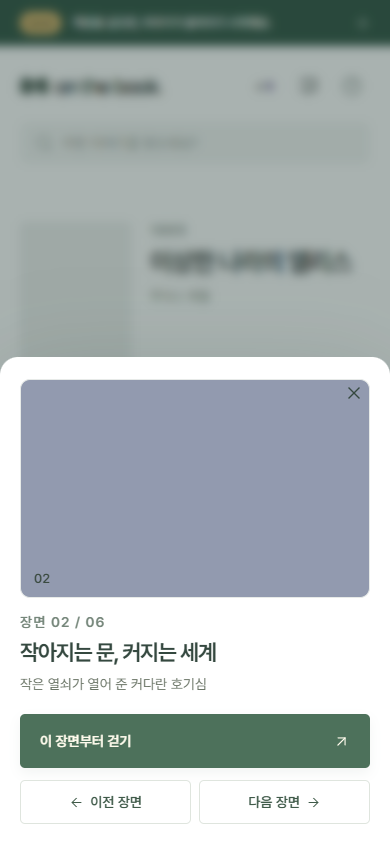
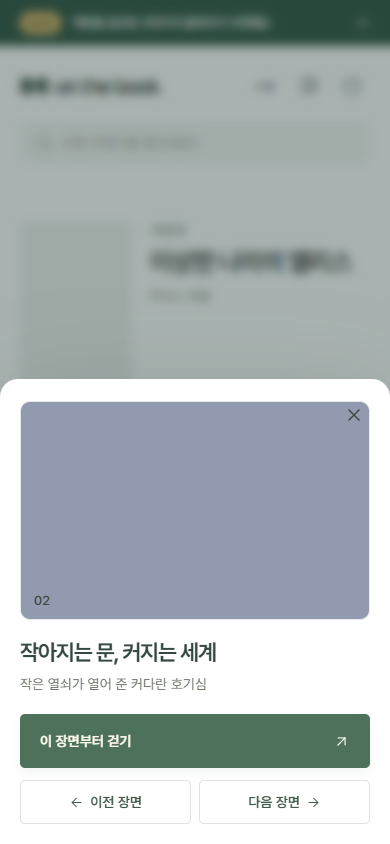
Open the flag tooltip rightwards, close its arrow seam and drop the scene counter
The saved flag's tooltip now opens to the right of its arrow, starting just
before the flag. Where the journey row, the scene panel or the sheet has no
room on that side, main.js measures the bubble before it shows and opens it
leftwards over the title instead, sliding it back inside at the very edge,
since the panel and the sheet are scrolling boxes that would clip it.

The arrow was a border triangle. Border widths are rounded down to whole
device pixels, so at 90% and 110% zoom a light line opened between the arrow
and the bubble. The arrow is now a clipped block whose top 3px sit under the
bubble.

The scene panel and the phone sheet no longer show the "장면 02 / 06" line
above the title; the image's number and the journey list give the position.
The detail screenshots and the spec follow.

Changed region(s): [[0.0, 0.4005, 1.0, 0.4929], [0.0308, 0.6777, 0.9538, 0.7393]]

diff --git a/client/detail.css b/client/detail.css
@@ -41,15 +41,20 @@
 /* The saved scene's flag ends its title, in the journey row and in the scene panel. It is filled orange so it stands
    out on the green page (3:1 or more on white and on the selected row), and it follows the title's size: 16px in a
    row, 22px in the panel. */
-.saved-flag { position: relative; display: inline-block; margin-left: .3em; line-height: 0; vertical-align: -.12em; color: #e8590c; }
+.saved-flag { --tip-edge: -10px; position: relative; display: inline-block; margin-left: .3em; line-height: 0; vertical-align: -.12em; color: #e8590c; }
 .saved-flag svg { display: block; width: 1em; height: 1em; fill: currentColor; }
 /* The flag's tooltip: its label in a dark bubble above the flag. It shows after a short pause while the pointer is on
    the flag or on the bubble (so it stays readable under magnification) and while the flag's journey row has keyboard
-   focus. The bubble ends just past the flag and opens leftwards over the title, so it never runs past the scene
-   panel's right edge. Touch screens have no hover, so on phones the flag stands alone. */
+   focus. The bubble starts --tip-edge before the flag and opens to the right of its arrow. Where the journey row, the
+   scene panel or the sheet has no room on that side, main.js sets --tip-left so it opens leftwards over the title
+   instead, and slides back inside at the very edge, because the panel and the sheet are scrolling boxes that would
+   clip it. Touch screens have no hover, so on phones the flag stands alone. */
 .saved-flag::before, .saved-flag::after { position: absolute; z-index: 2; opacity: 0; visibility: hidden; transform: translateY(3px); transition: opacity .12s ease, transform .12s ease, visibility 0s linear .12s; }
-.saved-flag::after { content: attr(aria-label); bottom: calc(100% + 6px); right: -10px; padding: 7px 10px; border-radius: 6px; background: #26352d; color: #fff; font-size: 13px; font-weight: 600; line-height: 1.3; letter-spacing: 0; white-space: nowrap; }
-.saved-flag::before { content: ""; bottom: 100%; left: 50%; margin-left: -6px; border: 6px solid transparent; border-bottom-width: 0; border-top-color: #26352d; }
+.saved-flag::after { content: attr(aria-label); bottom: calc(100% + 6px); left: var(--tip-left, var(--tip-edge)); padding: 7px 10px; border-radius: 6px; background: #26352d; color: #fff; font-size: 13px; font-weight: 600; line-height: 1.3; letter-spacing: 0; white-space: nowrap; }
+/* The arrow: a 12px-wide, 6px-deep point under the bubble. It is a clipped block whose top 3px sit under the bubble, so
+   rounding at odd zoom levels cannot open a light seam between them; a border triangle did, since border widths are
+   rounded down to whole device pixels. */
+.saved-flag::before { content: ""; bottom: 100%; left: 50%; width: 12px; height: 9px; margin-left: -6px; background: #26352d; clip-path: polygon(0 0, 100% 0, 100% 3px, 50% 100%, 0 3px); }
 .saved-flag:hover::before, .saved-flag:hover::after, .journey-row:focus-visible .saved-flag::before, .journey-row:focus-visible .saved-flag::after { opacity: 1; visibility: visible; transform: none; transition-delay: .1s, .1s, 0s; }
 /* Escape puts the bubble away until the pointer leaves the flag or focus leaves its row (main.js). These selectors are
    as specific as the ones above, and later, so they win. */
@@ -74,8 +79,7 @@
    `.scene-image img` covers the slot and `.scene-image.has-image .scene-number` becomes a light pill). */
 .scene-panel .scene-image, .scene-sheet .scene-image { display: block; width: 100%; aspect-ratio: 16 / 10; border-radius: 10px; }
 .scene-panel .scene-number, .scene-sheet .scene-number { font-size: 13px; color: #3a4a40; }
-.scene-panel .eyebrow, .scene-sheet .eyebrow { margin: 16px 0 8px; font-size: 14px; letter-spacing: .08em; color: #75867a; }
-.scene-panel h2, .scene-sheet h2 { margin: 0 0 6px; font-size: 22px; line-height: 1.3; word-break: keep-all; font-family: inherit; letter-spacing: -.05em; font-weight: 650; }
+.scene-panel h2, .scene-sheet h2 { margin: 18px 0 6px; font-size: 22px; line-height: 1.3; word-break: keep-all; font-family: inherit; letter-spacing: -.05em; font-weight: 650; }
 .scene-panel .detail-meta, .scene-sheet .detail-meta { margin: 0 0 10px; font-size: 14px; color: #6b7567; }
 .scene-panel .detail-enter, .scene-sheet .detail-enter { width: 100%; margin: 6px 0 4px; justify-content: space-between; }
 /* Previous and next: two buttons of the same width right under the CTA. A missing side stays as a dimmed slot. */

diff --git a/tests/detail.test.js b/tests/detail.test.js
@@ -117,7 +117,7 @@ test("bookDetail escapes text and survives a chapter without placements", () => 
   assert.doesNotMatch(html, /<b>앨리스/);
   assert.doesNotMatch(html, /journey-model|panel-figures/);
   assert.equal(count(html, 'class="journey-row"'), 1);
-  assert.match(html, /장면 01 \/ 01/);
+  assert.match(html, /<h2 id="panel-scene-title">흰 토끼를 따라서<\/h2>/);
 });
 
 test("bookDetail puts the author and book intros after the journey, closing the left column", () => {
@@ -167,7 +167,7 @@ test("the book schema keeps the intros, fills them in for older data and caps th
 
 test("scenePanel shows the scene and ends with the neighbour buttons under the CTA", () => {
   const html = scenePanel({ book: alice, chapter: alice.chapters[1] });
-  assert.match(html, /^<span class="scene-image image-placeholder" data-theme="night" role="img" aria-label="장면 이미지 준비 중"><span class="scene-number">02<\/span><\/span><span class="eyebrow">장면 02 \/ 06<\/span><h2 id="panel-scene-title">작아지는 문, 커지는 세계<\/h2><p class="detail-meta">작은 열쇠가 열어 준 커다란 호기심<\/p><button class="primary-button detail-enter" data-enter="alice" data-enter-chapter="alice-2">이 장면부터 걷기 /);
+  assert.match(html, /^<span class="scene-image image-placeholder" data-theme="night" role="img" aria-label="장면 이미지 준비 중"><span class="scene-number">02<\/span><\/span><h2 id="panel-scene-title">작아지는 문, 커지는 세계<\/h2><p class="detail-meta">작은 열쇠가 열어 준 커다란 호기심<\/p><button class="primary-button detail-enter" data-enter="alice" data-enter-chapter="alice-2">이 장면부터 걷기 /);
   // Previous and next come straight after the CTA and close the panel; the visible words stay the start of each
   // accessible name.
   assert.match(html, /이 장면부터 걷기 <i data-lucide="arrow-up-right" aria-hidden="true"><\/i><\/button><nav class="neighbor-nav" aria-label="이어지는 장면"><a class="neighbor-link" href="\?book=alice&amp;scene=alice-1" data-scene="alice-1" aria-label="이전 장면: 01 흰 토끼를 따라서"><i data-lucide="arrow-left" aria-hidden="true"><\/i> 이전 장면<\/a><a class="neighbor-link" href="\?book=alice&amp;scene=alice-3" data-scene="alice-3" aria-label="다음 장면: 03 버섯 숲의 수수께끼">다음 장면 <i data-lucide="arrow-right" aria-hidden="true"><\/i><\/a><\/nav>$/);
@@ -203,7 +203,8 @@ test("scenePanel keeps a dimmed slot for a missing neighbour so both buttons sta
   const first = scenePanel({ book: alice, chapter: alice.chapters[0] });
   assert.equal(count(first, 'class="neighbor-link"'), 1);
   assert.match(first, /<nav class="neighbor-nav" aria-label="이어지는 장면"><span class="neighbor-link is-disabled" aria-hidden="true"><i data-lucide="arrow-left" aria-hidden="true"><\/i> 이전 장면<\/span><a class="neighbor-link" href="\?book=alice&amp;scene=alice-2" data-scene="alice-2" aria-label="다음 장면: 02 작아지는 문, 커지는 세계">다음 장면 /);
-  assert.match(first, /장면 01 \/ 06/);
+  // The panel has no "장면 01 / 06" counter any more; the image's number and the journey list show the position.
+  assert.doesNotMatch(first, /장면 \d\d \/ \d\d|class="eyebrow"/);
   const last = scenePanel({ book: alice, chapter: alice.chapters[5] });
   assert.equal(count(last, 'class="neighbor-link"'), 1);
   assert.match(last, /data-scene="alice-5" aria-label="이전 장면: 05 장미 정원의 여왕"><i data-lucide="arrow-left" aria-hidden="true"><\/i> 이전 장면<\/a><span class="neighbor-link is-disabled" aria-hidden="true">다음 장면 <i data-lucide="arrow-right" aria-hidden="true"><\/i><\/span><\/nav>/);

diff --git a/client/detail.js b/client/detail.js
@@ -65,7 +65,7 @@ export function scenePanel({ book, chapter, progress = {}, preview = false, pref
     : `<span class="neighbor-link is-disabled" aria-hidden="true">${content}</span>`;
   const neighborNav = `<nav class="neighbor-nav" aria-label="이어지는 장면">${neighbor(previous, "이전 장면", `${icon("arrow-left")} 이전 장면`)}${neighbor(next, "다음 장면", `다음 장면 ${icon("arrow-right")}`)}</nav>`;
   // The image slot is always 16:10 in the panel; a studio thumbnail fills it over the theme tint.
-  return `<span class="scene-image image-placeholder${chapter.thumbnail ? " has-image" : ""}" data-theme="${esc(chapter.theme)}" role="img" aria-label="${chapter.thumbnail ? `${esc(chapter.title)} 장면 이미지` : "장면 이미지 준비 중"}">${chapter.thumbnail ? `<img src="${esc(chapter.thumbnail)}" alt="" decoding="async" draggable="false">` : ""}<span class="scene-number">${two(index + 1)}</span></span><span class="eyebrow">장면 ${two(index + 1)} / ${two(book.chapters.length)}</span><h2 id="${prefix}-scene-title">${esc(chapter.title)}${saved?.id === chapter.id ? savedFlag : ""}</h2>${chapter.subtitle ? `<p class="detail-meta">${esc(chapter.subtitle)}</p>` : ""}${enterButton(book, chapter)}${neighborNav}`;
+  return `<span class="scene-image image-placeholder${chapter.thumbnail ? " has-image" : ""}" data-theme="${esc(chapter.theme)}" role="img" aria-label="${chapter.thumbnail ? `${esc(chapter.title)} 장면 이미지` : "장면 이미지 준비 중"}">${chapter.thumbnail ? `<img src="${esc(chapter.thumbnail)}" alt="" decoding="async" draggable="false">` : ""}<span class="scene-number">${two(index + 1)}</span></span><h2 id="${prefix}-scene-title">${esc(chapter.title)}${saved?.id === chapter.id ? savedFlag : ""}</h2>${chapter.subtitle ? `<p class="detail-meta">${esc(chapter.subtitle)}</p>` : ""}${enterButton(book, chapter)}${neighborNav}`;
 }
 
 // The phone bar: the selected scene's number and title beside the entry button.

diff --git a/client/main.js b/client/main.js
@@ -198,6 +198,23 @@ function setupDetail() {
     catalogState.query = event.target.value;
     openLibrary({ land: "search" });
   }, { signal: abort.signal });
+  // The saved scene's flag tooltip opens to the right of its arrow, starting --tip-edge before the flag (detail.css).
+  // Where its journey row, the scene panel or the sheet has no room on that side, it opens leftwards over the title
+  // instead, and at the very edge it slides back inside, since the panel and the sheet are scrolling boxes that would
+  // clip it. The bubble keeps its size while hidden, so it is measured before it shows.
+  const aim = flag => {
+    const box = flag?.closest(".journey-row, .scene-panel, .scene-sheet")?.getBoundingClientRect();
+    if (!box) return;
+    const bubble = getComputedStyle(flag, "::after"), mark = flag.getBoundingClientRect();
+    const width = parseFloat(bubble.width) + (bubble.boxSizing === "border-box" ? 0 : parseFloat(bubble.paddingLeft) + parseFloat(bubble.paddingRight));
+    const edge = parseFloat(getComputedStyle(flag).getPropertyValue("--tip-edge"));
+    let left = mark.left + edge;
+    if (left + width > box.right - 1) left = mark.right - edge - width;
+    left = Math.max(box.left + 1, Math.min(left, box.right - 1 - width));
+    flag.style.setProperty("--tip-left", `${left - mark.left}px`);
+  };
+  document.addEventListener("pointerover", event => aim(event.target.closest?.(".saved-flag")), { signal: abort.signal });
+  document.addEventListener("focusin", event => aim(event.target.querySelector?.(".saved-flag")), { signal: abort.signal });
   // Escape puts the saved scene's flag tooltip away without moving the mouse (detail.css). It comes back once the
   // pointer has left the flag, or focus has left its journey row.
   document.addEventListener("keydown", event => {

diff --git a/docs/superpowers/specs/2026-09-28-detail-pages-design.md b/docs/superpowers/specs/2026-09-28-detail-pages-design.md
@@ -7,7 +7,7 @@
 - 처음에는 작품 상세(`?book=`)와 장면 상세(`?book=&scene=`) 두 페이지(두 뎁스)로 설계·구현했다(PR #3, 커밋 c60f7b6 까지). 같은 날 사용자가 밀리의서재 도서 상세처럼 **한 페이지 두 열**로 합치기로 결정했다. 왼쪽 열은 스크롤되는 작품 정보와 장면 목록, 오른쪽은 스크롤을 따라다니는 장면 패널이다.
 - 이 문서는 그 결정 이후의 최종 설계다. 두 뎁스 구현에서 바뀌는 점은 18절에 모았고, 구현 계획은 그 차이만 다룬다.
 - 그보다 앞서 정한 것(카드가 링크가 되는 홈 변경, 주소 규칙의 골격, `book-meta.js`·`detail.js` 분리, 표지·썸네일 표시)은 그대로 유효하다.
-- 2026-09-29 사용자 요청으로 두 가지를 더했다. 장면 패널과 시트의 스크롤바를 숨겼고(5절), '이 책의 여정' 다음에 저자 소개·책 소개 섹션과 이를 입력하는 관리자 칸을 넣었다(19절). 처음에는 빈 칸의 섹션을 숨겼으나, 같은 날 사용자 요청으로 섹션을 두고 '준비 중' 문구를 보이게 바꿨다. 이어서 왼쪽 열 섹션 사이의 구분선을 모두 없앴다(6절). 그다음 작품 상세에서 푸터와 헤더의 소개·책장으로·물음표를 빼 로고만 남기고, 장면 패널을 스크롤을 따라오는 sticky 대신 화면 높이에 고정했다(5절). 이어서 패널의 미리 읽기와 그 아래 글을 없애고 이전·다음을 CTA 아래 같은 너비의 버튼 둘로 옮겼으며(7절), 왼쪽 열의 원작 정보 섹션을 없앴다(6절). 이어서 작품 상세에도 홈과 같은 띠 배너와 헤더(로고·검색·소개·책장·이용 방법)를 두어 850px 초과에서 위에 고정하고, 장면 패널은 카드를 벗고 그 아래부터 화면 끝까지 채우며 왼쪽 열과는 선 하나로 나눴다(5절). 이어서 페이지 위아래 여백을 넓혔다(6절). 그다음 여정 행의 대표 모델 이름을 없애고 작품 상세의 12px 글자를 14px 로 올렸으며(6절), 그다음 히어로를 연도·한글 제목·저자만 남기고 패널의 "이 장면에서 만나는 것들"을 없앴다(6절·7절). 마지막으로 저장된 장면의 글자 배지 "마지막에 머문 장면"을 여정 행과 패널 모두 제목 끝의 주황 깃발 아이콘으로 바꾸고, 여정 행 번호 앞의 테마 칩을 없앴다(6절·7절). 이어서 2026-09-30 사용자 요청으로 깃발에 "마지막에 머문 장면" 툴팁을 달았다(6절).
+- 2026-09-29 사용자 요청으로 두 가지를 더했다. 장면 패널과 시트의 스크롤바를 숨겼고(5절), '이 책의 여정' 다음에 저자 소개·책 소개 섹션과 이를 입력하는 관리자 칸을 넣었다(19절). 처음에는 빈 칸의 섹션을 숨겼으나, 같은 날 사용자 요청으로 섹션을 두고 '준비 중' 문구를 보이게 바꿨다. 이어서 왼쪽 열 섹션 사이의 구분선을 모두 없앴다(6절). 그다음 작품 상세에서 푸터와 헤더의 소개·책장으로·물음표를 빼 로고만 남기고, 장면 패널을 스크롤을 따라오는 sticky 대신 화면 높이에 고정했다(5절). 이어서 패널의 미리 읽기와 그 아래 글을 없애고 이전·다음을 CTA 아래 같은 너비의 버튼 둘로 옮겼으며(7절), 왼쪽 열의 원작 정보 섹션을 없앴다(6절). 이어서 작품 상세에도 홈과 같은 띠 배너와 헤더(로고·검색·소개·책장·이용 방법)를 두어 850px 초과에서 위에 고정하고, 장면 패널은 카드를 벗고 그 아래부터 화면 끝까지 채우며 왼쪽 열과는 선 하나로 나눴다(5절). 이어서 페이지 위아래 여백을 넓혔다(6절). 그다음 여정 행의 대표 모델 이름을 없애고 작품 상세의 12px 글자를 14px 로 올렸으며(6절), 그다음 히어로를 연도·한글 제목·저자만 남기고 패널의 "이 장면에서 만나는 것들"을 없앴다(6절·7절). 마지막으로 저장된 장면의 글자 배지 "마지막에 머문 장면"을 여정 행과 패널 모두 제목 끝의 주황 깃발 아이콘으로 바꾸고, 여정 행 번호 앞의 테마 칩을 없앴다(6절·7절). 이어서 2026-09-30 사용자 요청으로 깃발에 "마지막에 머문 장면" 툴팁을 달았다(6절). 같은 날 툴팁을 꼬리 기준 오른쪽으로 열고(자리가 없으면 왼쪽), 꼬리와 말풍선 사이의 흰 줄을 없앴으며, 패널 제목 위의 "장면 02 / 06" 줄을 없앴다(6절·7절).
 
 ## 1. 배경과 목표
 
@@ -141,10 +141,10 @@ main.detail-page.store-content#main-content[data-view="book"]
 - `h2` "이 책의 여정", 설명 `p` "장면을 고르면 오른쪽에서 그 장면을 먼저 볼 수 있어요."(850px 이하에서는 CSS 로 "장면을 고르면 그 장면을 먼저 볼 수 있어요." 를 보인다. 두 문구를 `span` 둘로 넣고 폭에 따라 하나만 보인다.)
 - `<ol class="journey-list">` 안에 챕터 순서대로 `<li><a class="journey-row" href="{detailUrl scene}" data-scene="alice-2" aria-current="true|false">`. 행 안: 번호 `01`, `strong` 제목(저장된 장면 행 하나는 제목 끝에 깃발 `.saved-flag`), `small` 부제, `chevron-right` 아이콘. 행에는 대표 모델 이름을 두지 않는다(2026-09-29 사용자 요청으로 `span.journey-model` "· 조끼 입은 흰 토끼"를 없앴다. 장면의 모델은 3D 공간에서 만난다). 번호 앞에 있던 테마 칩(`.theme-chip`, 장면 테마 색의 작은 사각형)도 같은 날 사용자 요청으로 코드·CSS 와 함께 없앴다.
 - 저장된 장면의 표시는 깃발 하나다. `<span class="saved-flag" role="img" aria-label="마지막에 머문 장면">` 안에 lucide `flag` 아이콘을 두고, 여정 행의 `strong` 제목과 패널·시트의 `h2` 제목 바로 끝에 붙인다. 색은 주황 `#e8590c`(흰 바탕과 선택된 행 배경 모두에서 3:1 이상)이고 깃발 천을 같은 색으로 채운다. 크기는 제목 글자를 따라 여정 행 16px, 패널 22px 이고, 제목과 0.3em 띄운다. 이름은 `aria-label` 이 주고, 스크린 리더는 제목 뒤에 그 이름을 읽는다. 2026-09-29 사용자 요청으로 글자 배지 `.journey-badge` "마지막에 머문 장면"을 이 깃발로 바꿨다.
-- 깃발 툴팁(2026-09-30 사용자 요청): 깃발에 마우스를 올리면 0.1초 뒤 깃발 위에 짙은 말풍선(`#26352d`, 흰 글씨 13px, 모서리 6px, 깃발을 가리키는 아래쪽 꼬리)으로 "마지막에 머문 장면"이 뜬다. 글은 `aria-label` 을 CSS `attr()` 로 그대로 쓰고(말풍선 `.saved-flag::after`, 꼬리 `::before`), 브라우저 기본 툴팁이 겹치지 않도록 `title` 은 두지 않는다. 말풍선의 오른쪽 끝을 깃발 바로 뒤에 맞춰 제목 쪽(왼쪽)으로 열기 때문에, 장면 패널과 시트의 스크롤 상자 오른쪽 끝을 넘지 않는다. 포인터를 말풍선 위로 옮겨도 사라지지 않고, 여정 행에 키보드 초점이 오면(`:focus-visible`) 그 행의 말풍선도 보인다. Esc 는 포인터가 깃발을 떠나거나 초점이 행을 떠날 때까지 말풍선을 숨긴다(`main.js` 가 `is-quiet` 을 붙였다 뗀다). 움직임 줄이기 설정에서는 나타남 효과가 없다. 터치 화면에는 hover 가 없어 휴대폰에서는 깃발만 보인다.
+- 깃발 툴팁(2026-09-30 사용자 요청): 깃발에 마우스를 올리면 0.1초 뒤 깃발 위에 짙은 말풍선(`#26352d`, 흰 글씨 13px, 모서리 6px, 깃발을 가리키는 아래쪽 꼬리)으로 "마지막에 머문 장면"이 뜬다. 글은 `aria-label` 을 CSS `attr()` 로 그대로 쓰고(말풍선 `.saved-flag::after`, 꼬리 `::before`), 브라우저 기본 툴팁이 겹치지 않도록 `title` 은 두지 않는다. 말풍선은 깃발보다 10px 앞(`--tip-edge`)에서 시작해 꼬리 기준 오른쪽으로 열린다(2026-09-30 사용자 요청으로 왼쪽에서 바꿨다). 여정 행·장면 패널·시트 안에 오른쪽 자리가 모자라면 `main.js` 가 보이기 전에 말풍선 폭을 재어 `--tip-left` 로 제목 쪽(왼쪽)으로 열고, 상자 끝에 닿으면 안쪽으로 민다. 패널과 시트는 스크롤 상자라 넘치면 잘리기 때문이다. 꼬리는 테두리 삼각형이 아니라 잘라 낸 블록(`clip-path`, 너비 12px·깊이 6px)이고 위 3px 이 말풍선 밑에 겹친다. 테두리 두께는 기기 픽셀 정수로 내려 깎여서, 테두리 삼각형일 때는 화면 배율 90%·110% 에서 꼬리와 말풍선 사이에 흰 줄이 생겼다(2026-09-30 사용자 제보). 포인터를 말풍선 위로 옮겨도 사라지지 않고, 여정 행에 키보드 초점이 오면(`:focus-visible`) 그 행의 말풍선도 보인다. Esc 는 포인터가 깃발을 떠나거나 초점이 행을 떠날 때까지 말풍선을 숨긴다(`main.js` 가 `is-quiet` 을 붙였다 뗀다). 움직임 줄이기 설정에서는 나타남 효과가 없다. 터치 화면에는 hover 가 없어 휴대폰에서는 깃발만 보인다.
 - 선택된 행은 `aria-current="true"` 이고 연한 배경(`#f0f4ef`)과 왼쪽 3px 강조선(`--accent`)을 갖는다. 나머지는 `aria-current="false"`.
 - 행은 진짜 링크다. 수정키 클릭·가운데 클릭은 브라우저에 맡겨 `?book=&scene=` 을 새 탭으로 열 수 있고, 일반 클릭은 `preventDefault()` 뒤 장면 선택(4절)이다.
-- 작은 글자는 14px 이다. 히어로의 `.eyebrow`(연도)와 패널·시트의 `.eyebrow`("장면 02 / 06")가 12px(히어로 `.eyebrow` 는 600px 이하 11px)였는데, 2026-09-29 사용자 요청으로 모든 폭에서 14px 로 올렸다. 그때 함께 올린 `.panel-hint`·`.figure-story` 는 곧 모델 묶음과 함께 없앴다(7절). 13px(번호·부제·하단 바 문구)는 그대로다. 11px 배지는 깃발로 바뀌어 없어졌다.
+- 작은 글자는 14px 이다. 히어로의 `.eyebrow`(연도)와 패널·시트의 `.eyebrow`("장면 02 / 06", 2026-09-30 에 없앰)가 12px(히어로 `.eyebrow` 는 600px 이하 11px)였는데, 2026-09-29 사용자 요청으로 모든 폭에서 14px 로 올렸다. 그때 함께 올린 `.panel-hint`·`.figure-story` 는 곧 모델 묶음과 함께 없앴다(7절). 13px(번호·부제·하단 바 문구)는 그대로다. 11px 배지는 깃발로 바뀌어 없어졌다.
 - 장면 테마 색은 meadow `#cad7aa`, night `#929aaf`, tea `#d7c9b6`, rose `#d8c6b7`, gold `#dcca98`(3D 월드 바닥색)이다. 여정 행의 테마 칩을 없앤 뒤로는 패널·시트의 장면 이미지 자리 배경에만 쓴다.
 
 저자 소개·책 소개 `.detail-section.detail-intro`
@@ -159,7 +159,7 @@ main.detail-page.store-content#main-content[data-view="book"]
 
 순서와 내용
 1. 이미지 `.scene-image.image-placeholder[data-theme]`: 패널 폭 전체, **항상 16:10**(`aspect-ratio: 16 / 10`), 모서리 10px, 배경은 장면 테마 색(6절), 왼쪽 아래 `.scene-number` "02". 썸네일(`chapter.thumbnail`)이 있으면 `.has-image` 를 더하고 `<img>`(`alt=""`, `object-fit: cover`)가 자리를 채우며 번호는 밝은 알약 모양으로 위에 남는다. 이름표는 썸네일이 있으면 `aria-label="{장면 제목} 장면 이미지"`, 없으면 `"장면 이미지 준비 중"`. 패널이 좁아(340~400px) 16:10 이미지가 그대로 들어가므로 예전의 가로 띠와 잘림 문제가 없다.
-2. `.eyebrow` "`장면 02 / 06`", `h2#panel-scene-title` 장면 제목, `p.detail-meta` 부제(비어 있으면 생략). 저장된 장면이면 제목 끝에 깃발 `.saved-flag`(6절)가 붙는다. 예전에는 부제 아래에 글자 배지 "마지막에 머문 장면"을 두었다.
+2. `h2#panel-scene-title` 장면 제목(이미지 아래 18px), `p.detail-meta` 부제(비어 있으면 생략). 저장된 장면이면 제목 끝에 깃발 `.saved-flag`(6절)가 붙는다. 예전에는 부제 아래에 글자 배지 "마지막에 머문 장면"을 두었다. 제목 위에 있던 `.eyebrow` "장면 02 / 06" 줄은 2026-09-30 사용자 요청으로 없앴다. 장면 번호는 이미지의 "02" 와 여정 목록에서 보인다.
 3. CTA: `<button class="primary-button detail-enter" data-enter="alice" data-enter-chapter="alice-2">이 장면부터 걷기 ↗</button>`, 패널 폭 전체. 저장된 장면과 같아도 문구는 바꾸지 않는다. 어느 장면이든 들어가면 그 장면이 저장된 장면이 된다(기존 규칙).
 4. 이어지는 장면 `nav.neighbor-nav[aria-label="이어지는 장면"]`: CTA 바로 아래에 같은 너비의 버튼 두 개(`grid-template-columns: 1fr 1fr`, 간격 8px, 높이 44px, 모서리 5px, 흰 바탕에 1px 테두리). 왼쪽 "← 이전 장면", 오른쪽 "다음 장면 →". 링크는 `a.neighbor-link[href={detailUrl scene}][data-scene]` 이고, `aria-label` 은 보이는 글 뒤에 대상 장면을 붙인 "이전 장면: 01 흰 토끼를 따라서" 꼴이다. 여정 행과 같은 규칙으로 선택을 바꾼다. 첫 장면의 이전과 마지막 장면의 다음은 흐린 자리 `span.neighbor-link.is-disabled[aria-hidden="true"]` 로 남겨 두 버튼의 폭을 맞춘다. "작품 전체 보기"와 브레드크럼은 없다. 작품이 바로 왼쪽에 있기 때문이다(2026-09-29 사용자 요청으로 패널 맨 아래의 글자 링크에서 이 버튼으로 바꿨다).
 패널은 이전·다음 버튼으로 끝난다. 예전의 5번 "이 장면에서 만나는 것들"(배치 목록, 색 칩, 이야기, "장면의 중심" 배지, "가까이 다가가면 움직여요.")은 2026-09-29 사용자 요청으로 코드·CSS·검사와 함께 없앴다. 장면의 모델은 3D 공간에서 만난다. 그래서 패널 내용은 배치가 있든 없든 같다.
@@ -230,7 +230,6 @@ admin/
 | 저장된 장면 깃발 | 마지막에 머문 장면(깃발의 `aria-label`. 마우스를 올리면 툴팁으로 보이고 스크린 리더가 읽는다) |
 | 상태 문구 | `{번호} {장면 제목}` 장면을 골랐어요 |
 | 이미지 자리 | 표지 이미지 준비 중 / 장면 이미지 준비 중 / 썸네일이 있으면 `{장면} 장면 이미지` |
-| 패널 eyebrow | 장면 02 / 06 |
 | 하단 바 | `02 · 장면 제목` |
 | 이전·다음 버튼 | 이전 장면 / 다음 장면(읽는 이름은 "이전 장면: 01 흰 토끼를 따라서") |
 | 윗부분 | 홈과 같음(띠 배너, 로고, 검색창 "어떤 이야기를 찾으세요?", 소개, 책장 홈, 이용 방법) |
@@ -263,7 +262,7 @@ admin/
 
 - `detailUrl`(기존 검사 유지).
 - `bookDetail`: 저장 없음이면 여정 1행이 `aria-current="true"` 이고 패널 제목이 1장면, CTA `data-enter-chapter="alice-1"`. 저장(`alice-2`)이면 2행이 선택되고 패널이 2장면이며, 깃발이 2행 `strong` 제목과 패널 `h2` 제목 끝에 하나씩(합계 2개) 붙는다. 깃발에는 `title` 이 없고, 글자 배지와 테마 칩도 없다. 저장된 장이 없어졌으면 깃발도 없다. `chapter` 인자로 3장면을 넘기면 3행 선택·패널 3장면(주소로 연 경우). 히어로에 버튼이 없다(`data-enter` 는 패널과 하단 바에만, 합계 2개). 여정 행 `href` 가 `detailUrl` 과 같다. 표지가 있으면 `.detail-cover img` 하나, 없으면 "표지 이미지 준비 중". 제목에 `<` 가 든 가짜 책으로 이스케이프 확인.
-- `scenePanel`: 16:10 이미지 자리와 번호, 썸네일이 있으면 `has-image`·`<img>`·`aria-label="{제목} 장면 이미지"`(`"`·`<` 가 든 제목의 이스케이프 포함), 없으면 "장면 이미지 준비 중". `h2#panel-scene-title`. CTA 하나. 모델 묶음·본문·미리 읽기·바닥 글귀 안내는 없고, 이전·다음 버튼이 CTA 바로 뒤에서 패널을 끝낸다. 배치가 있든 없든 패널은 같다. 첫 장면의 이전과 마지막 장면의 다음은 흐린 자리다. `bookDetail` 히어로는 연도·한글 제목·저자만이고 분류·장면 수·영문 제목·소개 문장이 없으며, 저자가 비면 저자 줄이 없다. 저장된 장면이면 `h2` 제목 끝에 깃발. 없는 챕터는 예외.
+- `scenePanel`: 16:10 이미지 자리와 번호(제목 위 "장면 02 / 06" 줄은 없다), 썸네일이 있으면 `has-image`·`<img>`·`aria-label="{제목} 장면 이미지"`(`"`·`<` 가 든 제목의 이스케이프 포함), 없으면 "장면 이미지 준비 중". `h2#panel-scene-title`. CTA 하나. 모델 묶음·본문·미리 읽기·바닥 글귀 안내는 없고, 이전·다음 버튼이 CTA 바로 뒤에서 패널을 끝낸다. 배치가 있든 없든 패널은 같다. 첫 장면의 이전과 마지막 장면의 다음은 흐린 자리다. `bookDetail` 히어로는 연도·한글 제목·저자만이고 분류·장면 수·영문 제목·소개 문장이 없으며, 저자가 비면 저자 줄이 없다. 저장된 장면이면 `h2` 제목 끝에 깃발. 없는 챕터는 예외.
 - `sceneBar`: `02 · 작아지는 문, 커지는 세계` 와 `data-enter-chapter="alice-2"`.
 - 모든 링크가 `preview: true` 에서 `&preview=draft` 를 유지한다.
 
@@ -271,7 +270,7 @@ admin/
 
 1. 검색·분류·정렬 단계(기존) 뒤: `[data-book="alice"]` 클릭 → `.detail-page[data-view="book"]`, `#detail-title` "이상한 나라의 앨리스", 초점 `#detail-title`, 주소 `?book=alice`, `.journey-row` 6개 중 `[aria-current="true"]` 가 `alice-1`, `.scene-panel #panel-scene-title` "흰 토끼를 따라서", 상세 안 `img` 0개(시드). 여정 2행 클릭 → 커튼 없음(`.reader-curtain` 0), 주소 `?book=alice&scene=alice-2`, `history.length` 변화 없음(클릭 전후 `page.evaluate(() => history.length)` 비교), 패널 제목 "작아지는 문, 커지는 세계", `aria-current` 가 2행으로, `#scene-status` 에 "02". 패널의 "다음 장면" 버튼 클릭 → 3장면, 주소 `scene=alice-3`. 여정 1행 클릭 → 1장면, 주소 `scene=alice-1`. 패널 CTA 클릭 → `#world canvas`, 주소 `book=alice&chapter=alice-1`. 이어서 기존 "작품 소개" 모달 검사와 3D 안 이동·다음 챕터(02) 검사가 그대로 이어진다.
 2. 3D 안 이동·챕터 이동(기존). "책장으로" → `.catalog-card` 2개(기존).
-3. "읽던 작품 이어 보기" → `[data-book="alice"]` 클릭 → 저장된 2장면 행이 선택되고 그 행 제목 끝에 깃발(여정의 깃발은 하나), 패널 제목 "작아지는 문, 커지는 세계" 끝에도 깃발, 이름이 "마지막에 머문 장면"인 `img` 역할이 둘, 깃발 툴팁(`::after`)은 평소 숨어 있다가 여정 행 깃발 hover 에 보이고 Esc 에 숨으며, 패널 깃발 hover 에 보이고 포인터가 떠나면 숨고, 1행에서 Tab 으로 2행에 초점이 오면 보인다, 주소는 `?book=alice`(기본 선택이라 `scene` 없음). CTA 클릭 → `#map-button` 에 "02". `reload` 뒤에도 "02".
+3. "읽던 작품 이어 보기" → `[data-book="alice"]` 클릭 → 저장된 2장면 행이 선택되고 그 행 제목 끝에 깃발(여정의 깃발은 하나), 패널 제목 "작아지는 문, 커지는 세계" 끝에도 깃발, 이름이 "마지막에 머문 장면"인 `img` 역할이 둘, 깃발 툴팁(`::after`)은 평소 숨어 있다가 여정 행 깃발 hover 에 보이고 Esc 에 숨으며, 패널 깃발 hover 에 보이고 포인터가 떠나면 숨고, 여정 행과 패널의 말풍선은 오른쪽으로 열려 상자 안에 있으며, 패널 제목을 오른쪽 정렬해 깃발을 패널 끝에 붙이면 왼쪽으로 열려 패널 안에 머물고, 1행에서 Tab 으로 2행에 초점이 오면 보인다, 주소는 `?book=alice`(기본 선택이라 `scene` 없음). CTA 클릭 → `#map-button` 에 "02". `reload` 뒤에도 "02".
 4. `goBack()` → 작품 상세(선택 유지, 주소에 `scene`), 한 번 더 → `.library-page`, `goForward()` 두 번 → 월드.
 5. 홈에서 `[data-scene-chapter="alice-3"]` 클릭 → `.detail-page[data-view="book"]`, 주소 `?book=alice&scene=alice-3`, 3행 선택, 패널 제목 "버섯 숲의 수수께끼", 본문 문단·모델 묶음 없음, 패널의 마지막 요소는 이전·다음 버튼, "이전 장면"은 `alice-2`, "다음 장면"은 `alice-4`. 두 버튼은 CTA 바로 아래 한 줄에 같은 폭이고 합친 폭이 CTA 와 같다. CTA → 월드 `chapter=alice-3`.
 6. 홈에서 `.feature-card.is-active`(앨리스) 클릭 → 작품 상세. 로고 → `.feature-card.is-active` 에 초점, 5.6초 뒤에도 유지(기존. 작품 상세에 "책장으로"가 없어져 로고를 누른다).
